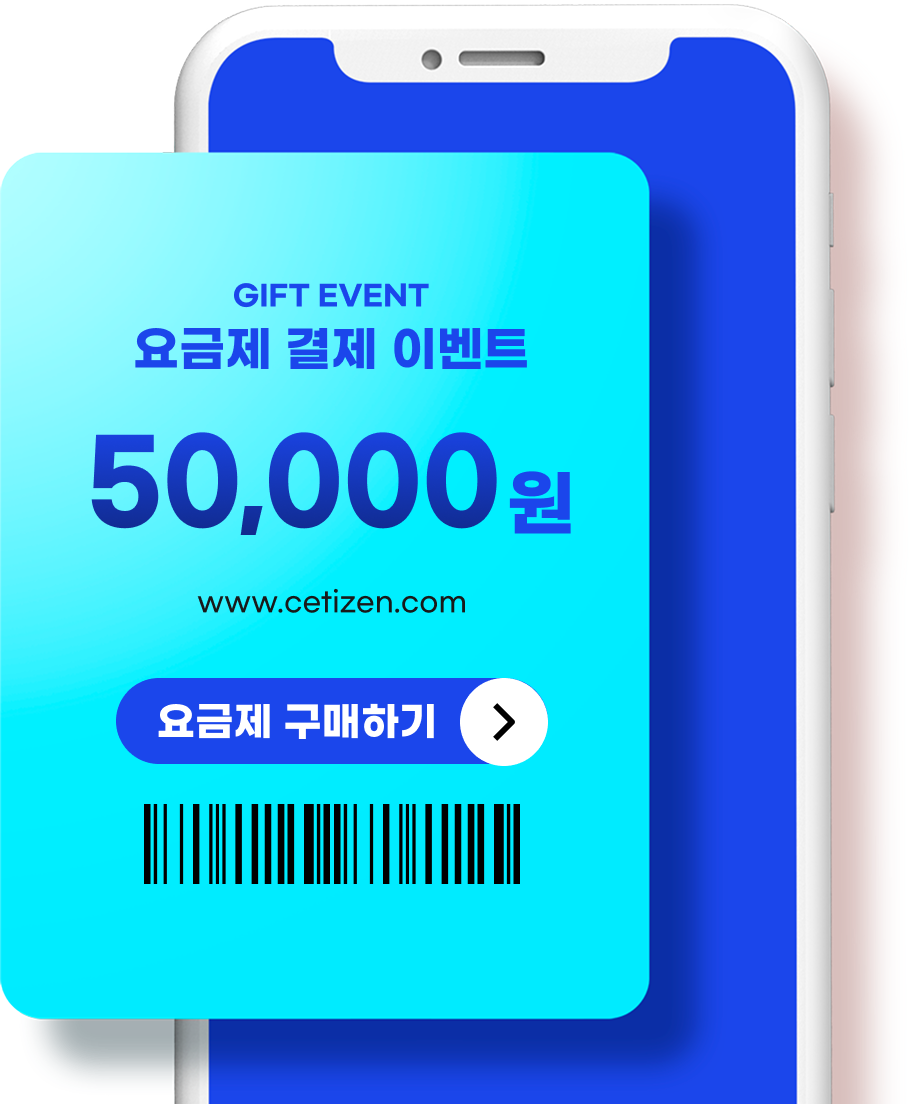
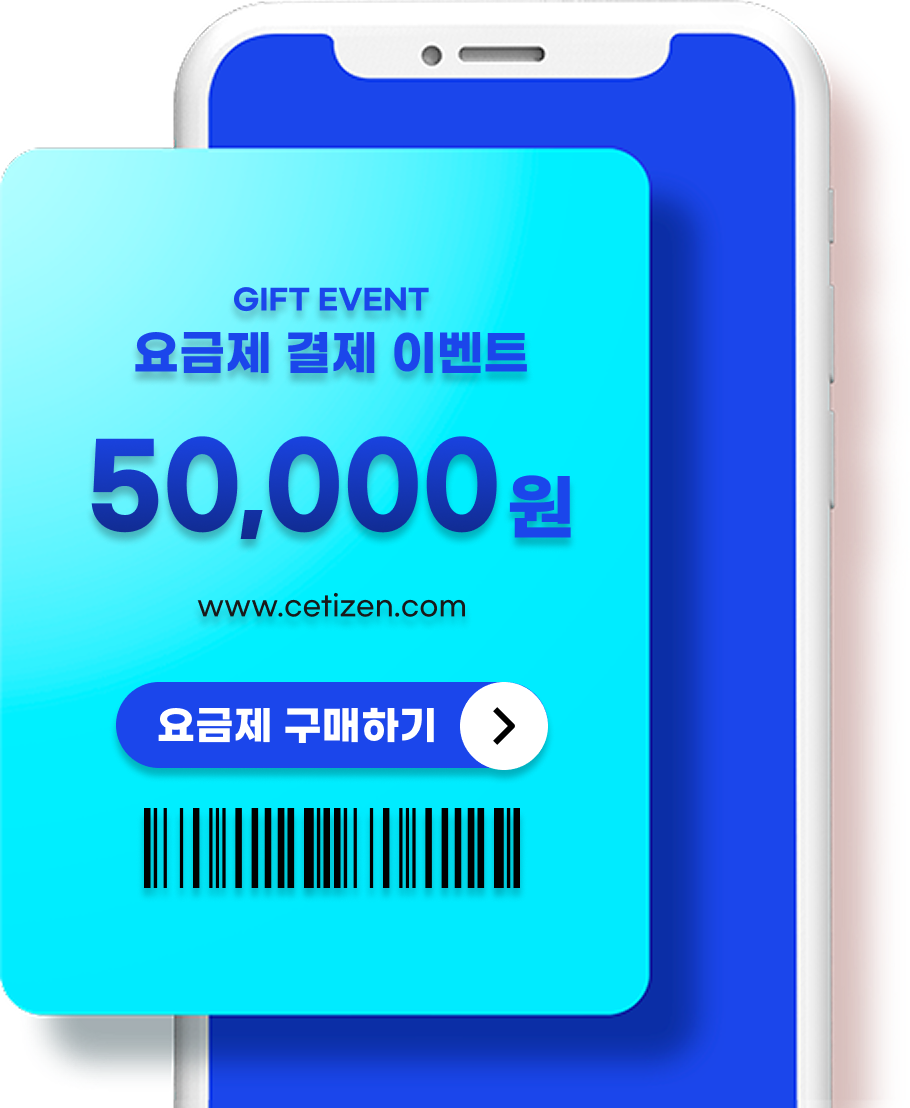
kv-02

diff --git a/assets/css/style.css b/assets/css/style.css
@@ -509,17 +509,16 @@ a {
 
 .kv-right img {
     height: 550px;
-    animation: kv .6s ease-in infinite alternate;
+    animation: kv .8s ease-in infinite alternate;
 }
 
 /* 페이드인 및 위로 이동 애니메이션 */
 @keyframes kv {
     0% {
-        margin-top: 0px;
+        transform: translateY(0px);
     }
 
     100% {
-        /* margin-top: 5px; */
         transform: translateY(10px);
     }
 }
@@ -2180,6 +2179,10 @@ a.btn-layerClose:hover {
         width: calc(100% - 60px);
     }
 
+    .kv-right img {
+        height: 400px;
+    }
+
     .review-wrap .inner-sec {
         max-width: unset;
         max-width: 100%;
@@ -3067,7 +3070,7 @@ a.btn-layerClose:hover {
 
 @media(max-width: 480px) {
     .kv-wrap {
-        padding: 60px 0 20px;
+        /* padding: 60px 0 20px; */
         height: 600px;
     }
 }
